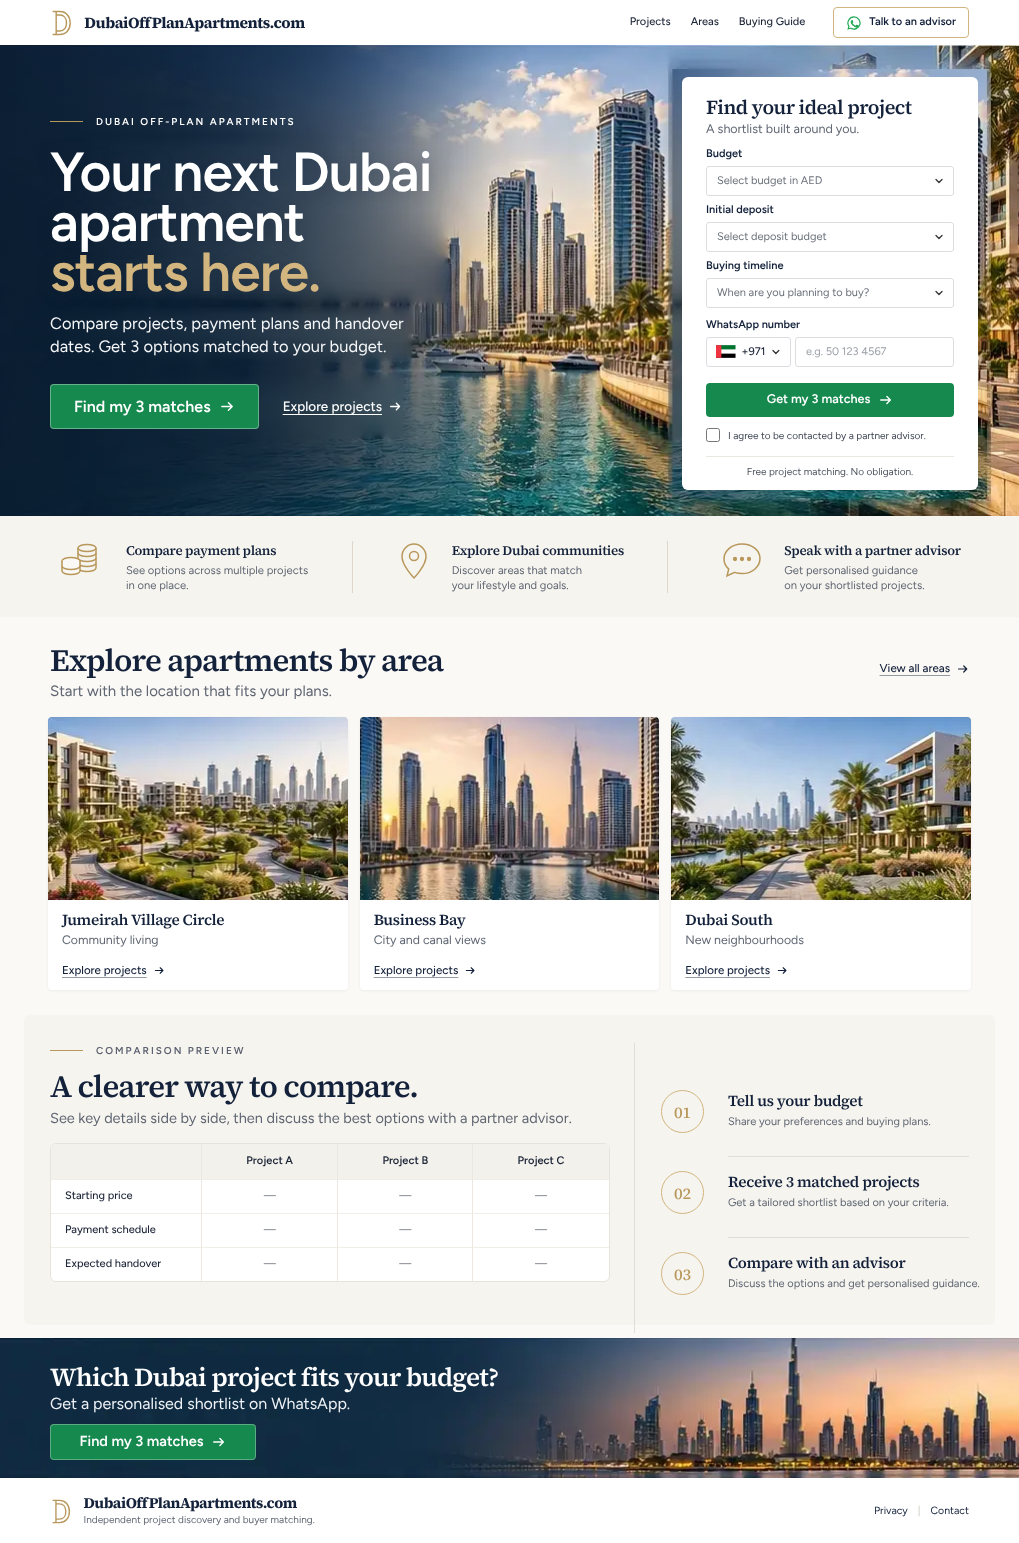
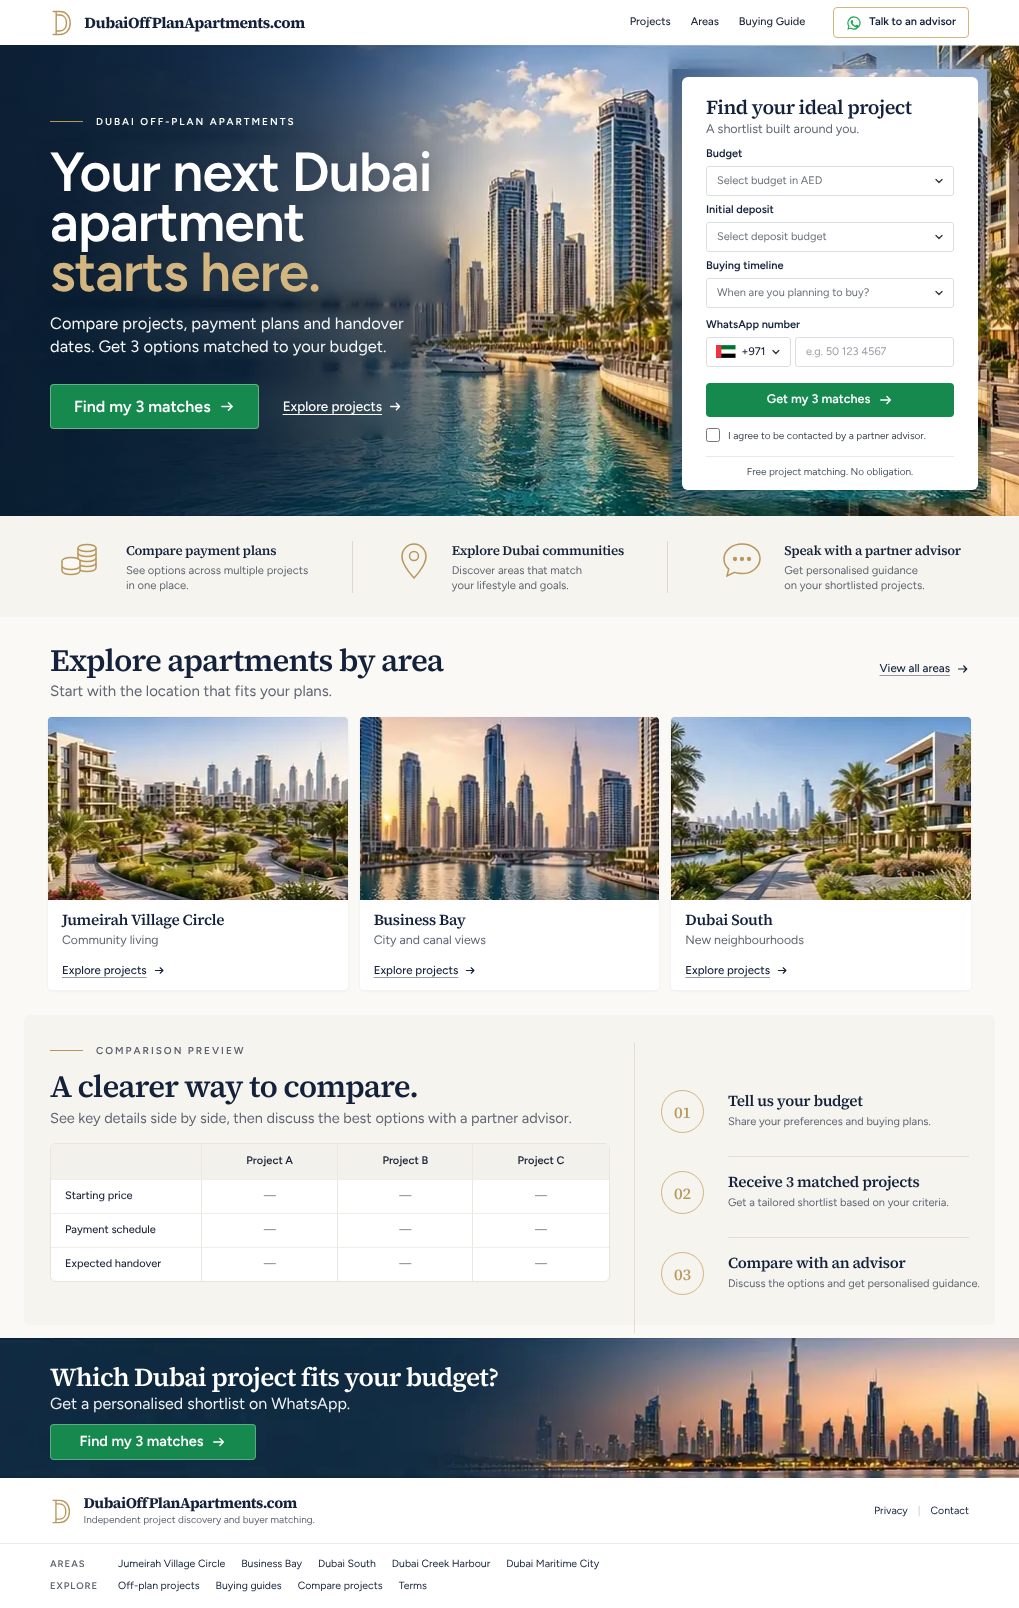
SEO band 1: home H1/title, Organization schema, footer links, canonical rules
- Home: the 'Dubai off-plan apartments' eyebrow is now the single H1 and
  the large slogan a paragraph (identical rendering at 1019px); title
  shortened to 59 characters with its own meta description
- Site-wide Organization + WebSite JSON-LD with a 512px logo; no legal
  name, address or profiles until the operator supplies them
- Second footer row linking all five area guides, projects, guides,
  compare and terms
- Filtered project lists use a normalised self-referencing canonical
  with noindex,follow instead of canonical-to-/projects/ plus noindex;
  /compare/ is always noindex and removed from the sitemap
- e2e check for the above (16/16 passing)

Claude-Session: https://claude.ai/code/session_01VNyuXSCMHJ9exxzQpzZeqf

diff --git a/src/app/globals.css b/src/app/globals.css
@@ -97,7 +97,7 @@ button, input, select, textarea { font: inherit; color: inherit; }
 }
 .hero-inner { position: relative; z-index: 2; display: flex; justify-content: space-between; align-items: flex-start; min-height: 471px; }
 .hero-copy { padding-top: 69px; max-width: 450px; }
-.hero h1 {
+.hero-title {
   margin-top: 18px; font-family: var(--font-sans); font-weight: 600; font-size: 55px; line-height: 50px; letter-spacing: -.016em;
   text-shadow: 0 1px 18px rgba(5, 18, 36, .25);
 }
@@ -235,6 +235,12 @@ button, input, select, textarea { font: inherit; color: inherit; }
 .footer-links { display: flex; gap: 10px; font-size: 10.5px; color: #c9c6bf; }
 .footer-links a { color: var(--navy-ink); text-decoration: none; }
 .footer-links a:hover { text-decoration: underline; }
+.footer-sitemap { border-top: 1px solid #efece6; }
+.footer-sitemap-inner { padding-top: 12px; padding-bottom: 14px; display: flex; flex-direction: column; gap: 6px; }
+.footer-sitemap nav { display: flex; flex-wrap: wrap; align-items: baseline; gap: 4px 16px; font-size: 10.5px; }
+.footer-sitemap-label { width: 52px; font-weight: 600; color: var(--muted); text-transform: uppercase; letter-spacing: .1em; font-size: 9.5px; }
+.footer-sitemap a { color: var(--navy-ink); text-decoration: none; }
+.footer-sitemap a:hover { text-decoration: underline; }
 
 /* ===== Wide screens: keep proportions of the 1019px reference ===== */
 @media (min-width: 1200px) {
@@ -270,7 +276,7 @@ button, input, select, textarea { font: inherit; color: inherit; }
   .hero::before { background: linear-gradient(180deg, rgba(11,29,52,.75) 0%, rgba(11,29,52,.45) 45%, rgba(11,29,52,.85) 100%); }
   .hero-inner { flex-direction: column; min-height: 0; }
   .hero-copy { padding-top: 40px; max-width: none; }
-  .hero h1 { font-size: 40px; line-height: 42px; }
+  .hero-title { font-size: 40px; line-height: 42px; }
   .hero-sub { font-size: 16px; }
   .hero-actions { flex-wrap: wrap; gap: 16px 22px; }
   .hero-form { width: 100%; padding: 32px 0 24px; }
@@ -324,6 +330,9 @@ button, input, select, textarea { font: inherit; color: inherit; }
   .footer-inner { height: auto; padding: 24px var(--gutter); flex-direction: column; align-items: flex-start; gap: 14px; }
   .footer-links { font-size: 14px; }
   .footer-tag { font-size: 12px; }
+  .footer-sitemap-inner { padding: 16px var(--gutter) 24px; gap: 14px; }
+  .footer-sitemap nav { font-size: 14px; gap: 8px 16px; }
+  .footer-sitemap-label { width: 100%; font-size: 11px; }
 }
 
 /* ===== Inner pages ===== */

diff --git a/src/app/page.tsx b/src/app/page.tsx
@@ -5,7 +5,12 @@ import { Arrow, Chat, Coins, Pin } from '@/components/Icons';
 import LeadForm from '@/components/LeadForm';
 import { getArea } from '@/content/areas';
 
-export const metadata: Metadata = { alternates: { canonical: '/' } };
+export const metadata: Metadata = {
+  // Absolute so the brand suffix from the layout template is not appended (keeps it under 60 characters).
+  title: { absolute: 'Dubai Off-Plan Apartments: Compare Projects & Payment Plans' },
+  description: 'Compare Dubai off-plan apartment projects, payment plans and expected handover dates. Get 3 options matched to your budget from a partner advisor.',
+  alternates: { canonical: '/' },
+};
 
 const featuredAreas = ['jvc', 'business-bay', 'dubai-south'].map((s) => getArea(s)!);
 
@@ -22,10 +27,11 @@ export default function Home() {
         <Image src="/images/hero-dubai-waterfront.webp" alt="" fill priority sizes="100vw" className="hero-img" />
         <div className="container hero-inner">
           <div className="hero-copy">
-            <p className="eyebrow eyebrow-light">Dubai off-plan apartments</p>
-            <h1>
+            {/* The H1 carries the primary query; the large slogan keeps the reference look as a paragraph. */}
+            <h1 className="eyebrow eyebrow-light">Dubai off-plan apartments</h1>
+            <p className="hero-title">
               Your next Dubai<br />apartment<br /><span className="gold">starts here.</span>
-            </h1>
+            </p>
             <p className="hero-sub">Compare projects, payment plans and handover dates. Get 3 options matched to your budget.</p>
             <div className="hero-actions">
               <a href="#match-form" className="btn btn-green btn-lg" data-cta="find_my_3_matches" data-cta-location="hero">

diff --git a/src/app/projects/page.tsx b/src/app/projects/page.tsx
@@ -15,13 +15,22 @@ function readFilters(sp: Record<string, string | string[] | undefined>): Project
   return f;
 }
 
+/** Filter URL in a fixed parameter order, so every combination has exactly one canonical form. */
+function filtersPath(f: ProjectFilters): string {
+  const q = KEYS.filter((k) => f[k]).map((k) => `${k}=${encodeURIComponent(f[k]!)}`).join('&');
+  return q ? `/projects/?${q}` : '/projects/';
+}
+
 export async function generateMetadata({ searchParams }: { searchParams: SP }): Promise<Metadata> {
-  const filtered = Object.keys(readFilters(await searchParams)).length > 0;
+  const f = readFilters(await searchParams);
+  const filtered = Object.keys(f).length > 0;
   return {
     title: 'Dubai Off-Plan Projects: Filter by Area, Budget & Handover',
     description: 'Filter Dubai off-plan apartment projects by area, total budget, bedrooms, expected handover and payment plan.',
-    alternates: { canonical: '/projects/' },
-    // Filter combinations are not indexed; the unfiltered list is. With no verified projects yet, the list itself is noindex too.
+    // Self-referencing canonical. A filtered page is noindex, so its canonical must not point at a
+    // different URL (canonical elsewhere + noindex sends conflicting signals).
+    alternates: { canonical: filtersPath(f) },
+    // The unfiltered list is indexed once verified projects exist; filter combinations never are.
     robots: { index: !filtered && publicProjects().some((p) => p.status === 'verified'), follow: true },
   };
 }

diff --git a/src/app/layout.tsx b/src/app/layout.tsx
@@ -4,6 +4,7 @@ import Script from 'next/script';
 import AnalyticsListener from '@/components/AnalyticsListener';
 import SiteFooter from '@/components/SiteFooter';
 import SiteHeader from '@/components/SiteHeader';
+import { siteJsonLd } from '@/lib/schema';
 import { SITE_NAME, siteUrl } from '@/lib/site';
 import './globals.css';
 
@@ -15,6 +16,7 @@ export const metadata: Metadata = {
   title: { default: `Dubai Off-Plan Apartments: Compare Projects & Payment Plans | ${SITE_NAME}`, template: `%s | ${SITE_NAME}` },
   description: 'Compare Dubai off-plan apartment projects, payment plans and expected handover dates, and request 3 options matched to your budget.',
   openGraph: { siteName: SITE_NAME, type: 'website', locale: 'en_AE' },
+  icons: { icon: '/logo.svg', apple: '/logo-512.png' },
 };
 
 export const viewport: Viewport = { width: 'device-width', initialScale: 1, themeColor: '#0F2340' };
@@ -29,6 +31,7 @@ export default function RootLayout({ children }: { children: React.ReactNode }) 
       </head>
       <body>
         <a className="skip-link" href="#main">Skip to content</a>
+        <script type="application/ld+json" dangerouslySetInnerHTML={{ __html: JSON.stringify(siteJsonLd()) }} />
         <SiteHeader />
         <main id="main">{children}</main>
         <SiteFooter />

diff --git a/src/components/SiteFooter.tsx b/src/components/SiteFooter.tsx
@@ -1,4 +1,5 @@
 import Link from 'next/link';
+import { areas } from '@/content/areas';
 import { SITE_NAME, SITE_TAGLINE } from '@/lib/site';
 import { Logo } from './Icons';
 
@@ -18,6 +19,22 @@ export default function SiteFooter() {
           <span aria-hidden="true">|</span>
           <Link href="/contact/">Contact</Link>
         </nav>
+      </div>
+      {/* Site-wide internal links below the reference footer row. */}
+      <div className="footer-sitemap">
+        <div className="container footer-sitemap-inner">
+          <nav aria-label="Areas">
+            <span className="footer-sitemap-label">Areas</span>
+            {areas.map((a) => <Link key={a.slug} href={`/areas/${a.slug}/`}>{a.name}</Link>)}
+          </nav>
+          <nav aria-label="Explore">
+            <span className="footer-sitemap-label">Explore</span>
+            <Link href="/projects/">Off-plan projects</Link>
+            <Link href="/guides/">Buying guides</Link>
+            <Link href="/compare/">Compare projects</Link>
+            <Link href="/terms/">Terms</Link>
+          </nav>
+        </div>
       </div>
     </footer>
   );

diff --git a/src/lib/schema.ts b/src/lib/schema.ts
@@ -1,0 +1,31 @@
+import { SITE_NAME, SITE_TAGLINE, siteUrl } from './site';
+
+/**
+ * Site-wide structured data. Only facts that are true today: no legal name, address, phone,
+ * social profiles or ratings until the operator supplies them (see docs: Phase 2 SEO plan).
+ */
+export function siteJsonLd() {
+  const orgId = siteUrl('/#organization');
+  return {
+    '@context': 'https://schema.org',
+    '@graph': [
+      {
+        '@type': 'Organization',
+        '@id': orgId,
+        name: SITE_NAME,
+        url: siteUrl('/'),
+        logo: { '@type': 'ImageObject', url: siteUrl('/logo-512.png'), width: 512, height: 512 },
+        description: SITE_TAGLINE,
+        areaServed: { '@type': 'City', name: 'Dubai' },
+      },
+      {
+        '@type': 'WebSite',
+        '@id': siteUrl('/#website'),
+        name: SITE_NAME,
+        url: siteUrl('/'),
+        inLanguage: 'en',
+        publisher: { '@id': orgId },
+      },
+    ],
+  };
+}

diff --git a/src/app/compare/page.tsx b/src/app/compare/page.tsx
@@ -19,8 +19,9 @@ export async function generateMetadata({ searchParams }: { searchParams: SP }): 
   return {
     title: 'Compare Dubai Off-Plan Projects Side by Side',
     description: 'Compare up to three Dubai off-plan projects: starting price, payment schedule, expected handover and unit types.',
-    alternates: { canonical: '/compare/' },
-    robots: { index: s.length === 0, follow: true },
+    // A selection tool with no content of its own: never indexed, canonical is the page itself.
+    alternates: { canonical: s.length ? `/compare/?p=${s.join(',')}` : '/compare/' },
+    robots: { index: false, follow: true },
   };
 }
 

diff --git a/src/app/sitemap.ts b/src/app/sitemap.ts
@@ -11,7 +11,6 @@ export default function sitemap(): MetadataRoute.Sitemap {
     { url: siteUrl('/') },
     { url: siteUrl('/areas/') },
     { url: siteUrl('/guides/') },
-    { url: siteUrl('/compare/') },
     { url: siteUrl('/contact/') },
     { url: siteUrl('/privacy/') },
     { url: siteUrl('/terms/') },
